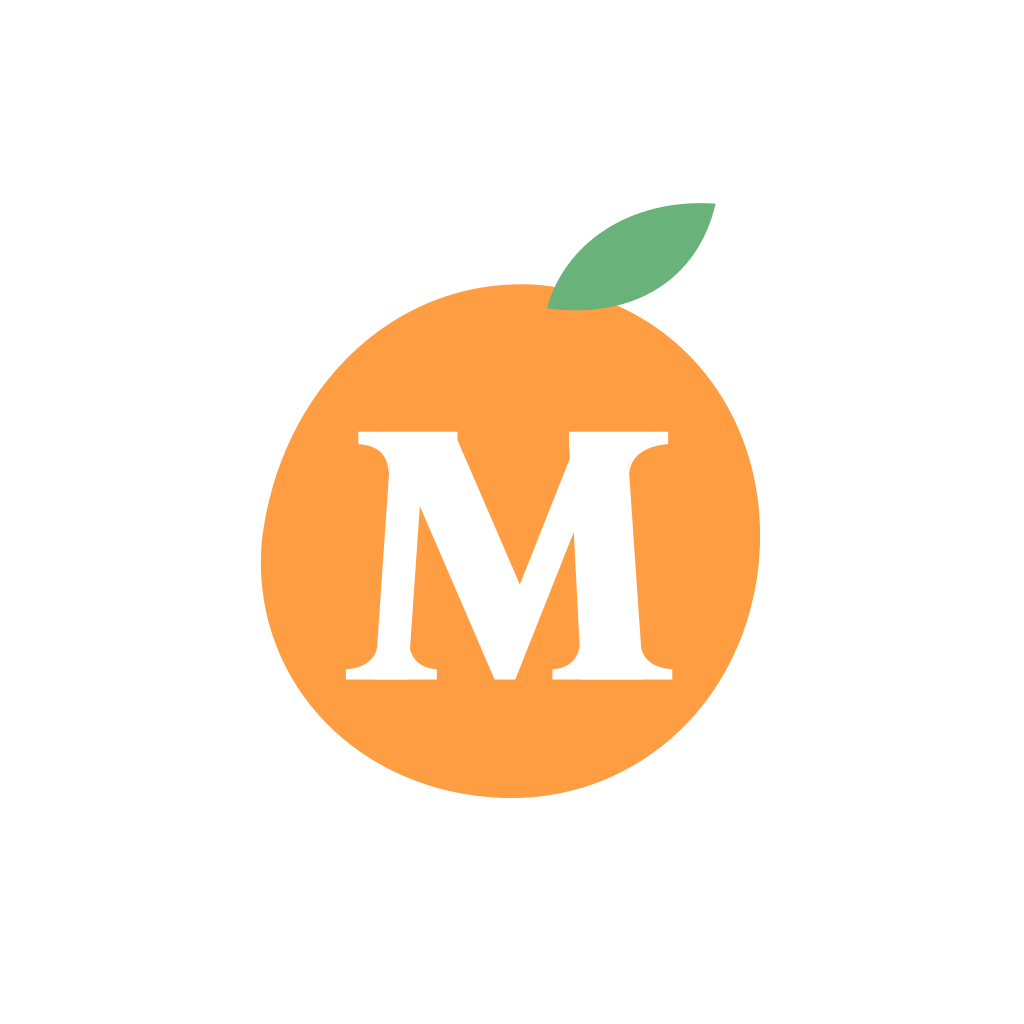
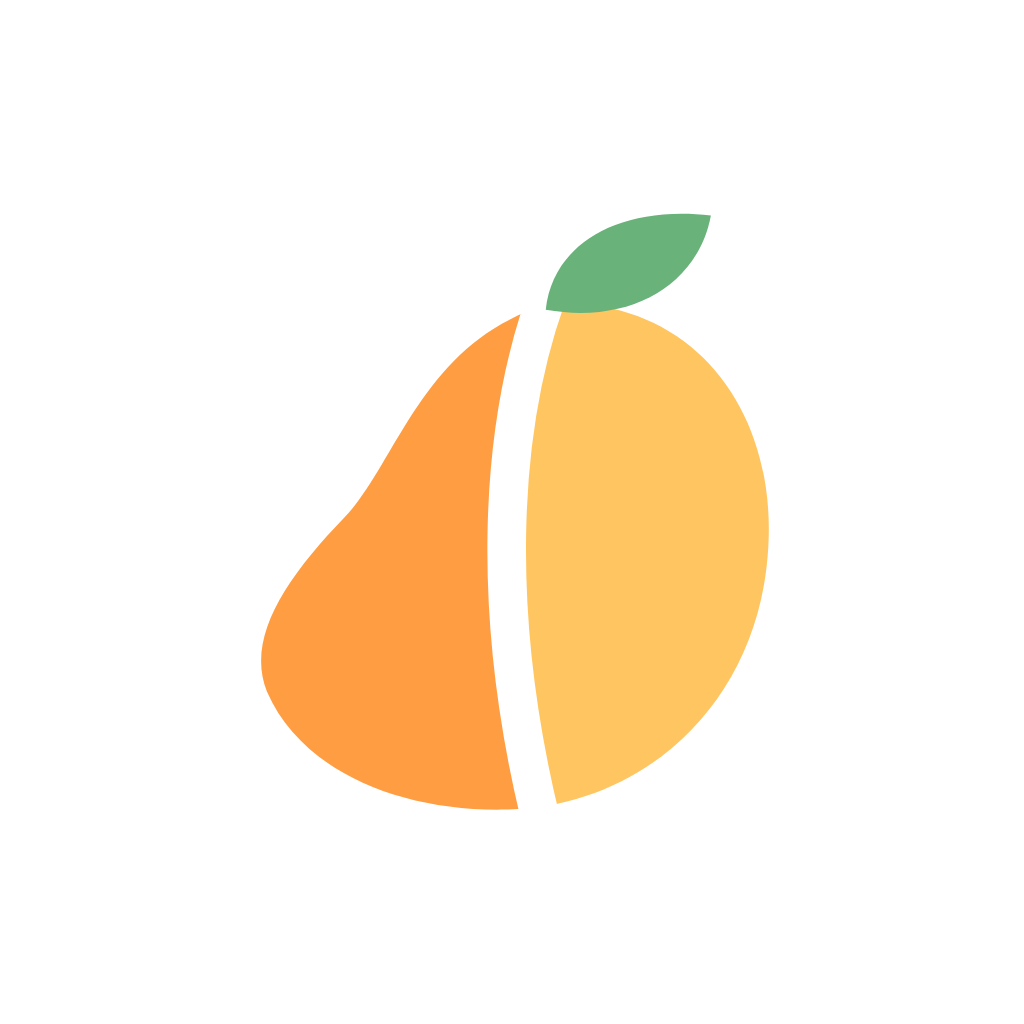
feat(mobile): use the split mango mark on the phone
MangoMark.tsx draws the desktop's new mark. Its lighter half is a new
`markLight` colour, which scripts/schemes.ts computes from each scheme's
accent the same way the desktop does (lightness +0.07, chroma x0.85, hue
+20). The app icon, splash, Android icons and web favicon are re-rendered
from assets/icon.svg at their old sizes and positions.

diff --git a/mobile/src/theme/schemes.generated.ts b/mobile/src/theme/schemes.generated.ts
@@ -65,6 +65,7 @@ export const generated = {
         "waitingWash": "#1b251d",
         "waitingLine": "rgba(244, 124, 110, 0.55)",
         "accentWash": "#1d2920",
+        "markLight": "#ffc560",
         "errorWash": "rgba(240, 85, 91, 0.12)",
         "errorLine": "rgba(240, 85, 91, 0.4)",
         "errorLineStrong": "rgba(240, 85, 91, 0.6)",
@@ -137,6 +138,7 @@ export const generated = {
         "waitingWash": "#fef3f2",
         "waitingLine": "rgba(217, 84, 72, 0.55)",
         "accentWash": "#fff5ed",
+        "markLight": "#f1b542",
         "errorWash": "rgba(208, 43, 49, 0.12)",
         "errorLine": "rgba(208, 43, 49, 0.4)",
         "errorLineStrong": "rgba(208, 43, 49, 0.6)",
@@ -211,6 +213,7 @@ export const generated = {
         "waitingWash": "#1c222d",
         "waitingLine": "rgba(244, 124, 110, 0.55)",
         "accentWash": "#1c2531",
+        "markLight": "#a8bdff",
         "errorWash": "rgba(240, 85, 91, 0.12)",
         "errorLine": "rgba(240, 85, 91, 0.4)",
         "errorLineStrong": "rgba(240, 85, 91, 0.6)",
@@ -283,6 +286,7 @@ export const generated = {
         "waitingWash": "#fef3f2",
         "waitingLine": "rgba(217, 84, 72, 0.55)",
         "accentWash": "#f0f6ff",
+        "markLight": "#97a7fe",
         "errorWash": "rgba(208, 43, 49, 0.12)",
         "errorLine": "rgba(208, 43, 49, 0.4)",
         "errorLineStrong": "rgba(208, 43, 49, 0.6)",
@@ -357,6 +361,7 @@ export const generated = {
         "waitingWash": "#152523",
         "waitingLine": "rgba(244, 124, 110, 0.55)",
         "accentWash": "#172928",
+        "markLight": "#71d8f1",
         "errorWash": "rgba(240, 85, 91, 0.12)",
         "errorLine": "rgba(240, 85, 91, 0.4)",
         "errorLineStrong": "rgba(240, 85, 91, 0.6)",
@@ -429,6 +434,7 @@ export const generated = {
         "waitingWash": "#fef3f2",
         "waitingLine": "rgba(217, 84, 72, 0.55)",
         "accentWash": "#eef9f8",
+        "markLight": "#5cc5dd",
         "errorWash": "rgba(208, 43, 49, 0.12)",
         "errorLine": "rgba(208, 43, 49, 0.4)",
         "errorLineStrong": "rgba(208, 43, 49, 0.6)",
@@ -503,6 +509,7 @@ export const generated = {
         "waitingWash": "#1d241a",
         "waitingLine": "rgba(244, 124, 110, 0.55)",
         "accentWash": "#1e291e",
+        "markLight": "#72e8b9",
         "errorWash": "rgba(240, 85, 91, 0.12)",
         "errorLine": "rgba(240, 85, 91, 0.4)",
         "errorLineStrong": "rgba(240, 85, 91, 0.6)",
@@ -575,6 +582,7 @@ export const generated = {
         "waitingWash": "#fef3f2",
         "waitingLine": "rgba(217, 84, 72, 0.55)",
         "accentWash": "#f0f9f0",
+        "markLight": "#4bcf9e",
         "errorWash": "rgba(208, 43, 49, 0.12)",
         "errorLine": "rgba(208, 43, 49, 0.4)",
         "errorLineStrong": "rgba(208, 43, 49, 0.6)",
@@ -649,6 +657,7 @@ export const generated = {
         "waitingWash": "#241f2b",
         "waitingLine": "rgba(244, 124, 110, 0.55)",
         "accentWash": "#252230",
+        "markLight": "#dda4f6",
         "errorWash": "rgba(240, 85, 91, 0.12)",
         "errorLine": "rgba(240, 85, 91, 0.4)",
         "errorLineStrong": "rgba(240, 85, 91, 0.6)",
@@ -721,6 +730,7 @@ export const generated = {
         "waitingWash": "#fef3f2",
         "waitingLine": "rgba(217, 84, 72, 0.55)",
         "accentWash": "#f5f3fe",
+        "markLight": "#ca8ae6",
         "errorWash": "rgba(208, 43, 49, 0.12)",
         "errorLine": "rgba(208, 43, 49, 0.4)",
         "errorLineStrong": "rgba(208, 43, 49, 0.6)",
@@ -795,6 +805,7 @@ export const generated = {
         "waitingWash": "#2a1d23",
         "waitingLine": "rgba(244, 124, 110, 0.55)",
         "accentWash": "#2e2027",
+        "markLight": "#ffa6b6",
         "errorWash": "rgba(240, 85, 91, 0.12)",
         "errorLine": "rgba(240, 85, 91, 0.4)",
         "errorLineStrong": "rgba(240, 85, 91, 0.6)",
@@ -867,6 +878,7 @@ export const generated = {
         "waitingWash": "#fef3f2",
         "waitingLine": "rgba(217, 84, 72, 0.55)",
         "accentWash": "#fff2f7",
+        "markLight": "#ff8b96",
         "errorWash": "rgba(208, 43, 49, 0.12)",
         "errorLine": "rgba(208, 43, 49, 0.4)",
         "errorLineStrong": "rgba(208, 43, 49, 0.6)",
@@ -941,6 +953,7 @@ export const generated = {
         "waitingWash": "#2b1e1c",
         "waitingLine": "rgba(244, 124, 110, 0.55)",
         "accentWash": "#2f1f1e",
+        "markLight": "#ff9d6e",
         "errorWash": "rgba(240, 85, 91, 0.12)",
         "errorLine": "rgba(240, 85, 91, 0.4)",
         "errorLineStrong": "rgba(240, 85, 91, 0.6)",
@@ -1013,6 +1026,7 @@ export const generated = {
         "waitingWash": "#fef3f2",
         "waitingLine": "rgba(217, 84, 72, 0.55)",
         "accentWash": "#fff1ef",
+        "markLight": "#f88248",
         "errorWash": "rgba(208, 43, 49, 0.12)",
         "errorLine": "rgba(208, 43, 49, 0.4)",
         "errorLineStrong": "rgba(208, 43, 49, 0.6)",
@@ -1087,6 +1101,7 @@ export const generated = {
         "waitingWash": "#1c222a",
         "waitingLine": "rgba(244, 124, 110, 0.55)",
         "accentWash": "#20262b",
+        "markLight": "#b5c7ef",
         "errorWash": "rgba(240, 85, 91, 0.12)",
         "errorLine": "rgba(240, 85, 91, 0.4)",
         "errorLineStrong": "rgba(240, 85, 91, 0.6)",
@@ -1159,6 +1174,7 @@ export const generated = {
         "waitingWash": "#fef3f2",
         "waitingLine": "rgba(217, 84, 72, 0.55)",
         "accentWash": "#f0f4f8",
+        "markLight": "#879bc6",
         "errorWash": "rgba(208, 43, 49, 0.12)",
         "errorLine": "rgba(208, 43, 49, 0.4)",
         "errorLineStrong": "rgba(208, 43, 49, 0.6)",
@@ -1233,6 +1249,7 @@ export const generated = {
         "waitingWash": "#1f1515",
         "waitingLine": "rgba(244, 124, 110, 0.55)",
         "accentWash": "#221212",
+        "markLight": "#df5a00",
         "errorWash": "rgba(240, 85, 91, 0.12)",
         "errorLine": "rgba(240, 85, 91, 0.4)",
         "errorLineStrong": "rgba(240, 85, 91, 0.6)",
@@ -1305,6 +1322,7 @@ export const generated = {
         "waitingWash": "#fef3f2",
         "waitingLine": "rgba(217, 84, 72, 0.55)",
         "accentWash": "#ffedea",
+        "markLight": "#d85400",
         "errorWash": "rgba(208, 43, 49, 0.12)",
         "errorLine": "rgba(208, 43, 49, 0.4)",
         "errorLineStrong": "rgba(208, 43, 49, 0.6)",
@@ -1379,6 +1397,7 @@ export const generated = {
         "waitingWash": "#27201f",
         "waitingLine": "rgba(244, 124, 110, 0.55)",
         "accentWash": "#2b241f",
+        "markLight": "#ffc560",
         "errorWash": "rgba(240, 85, 91, 0.12)",
         "errorLine": "rgba(240, 85, 91, 0.4)",
         "errorLineStrong": "rgba(240, 85, 91, 0.6)",
@@ -1451,6 +1470,7 @@ export const generated = {
         "waitingWash": "#fef3f2",
         "waitingLine": "rgba(217, 84, 72, 0.55)",
         "accentWash": "#fff5ed",
+        "markLight": "#f1b542",
         "errorWash": "rgba(208, 43, 49, 0.12)",
         "errorLine": "rgba(208, 43, 49, 0.4)",
         "errorLineStrong": "rgba(208, 43, 49, 0.6)",

diff --git a/mobile/src/ui/MangoMark.tsx b/mobile/src/ui/MangoMark.tsx
@@ -3,31 +3,26 @@ import Svg, { Defs, G, Mask, Path, Rect } from 'react-native-svg'
 import { useTheme } from '@/theme'
 
 /**
- * The app mark, ported from the desktop's `ui/MangoMark.vue`: the ripeness-dot mango, ripe, with a
- * Roman inscription M cut out of its flesh so the ground shows through. Same geometry as
- * `assets/icon.svg`.
+ * The app mark, ported from the desktop's `ui/MangoMark.vue`: a kidney-shaped mango split down its
+ * ridge into two halves, the left in the accent, the right a step lighter and warmer, with the leaf
+ * in unripe green. Same geometry as `assets/icon.svg`.
  */
 export function MangoMark({ size = 18 }: { size?: number }) {
   const t = useTheme()
   const id = `mark${useId().replace(/[^a-zA-Z0-9_-]/g, '')}`
   return (
-    <Svg width={size} height={size} viewBox="0.6 0 11 11" accessibilityRole="image" accessibilityLabel="Mango">
+    <Svg width={size} height={size} viewBox="5 1.2 56.6 56.6" accessibilityRole="image" accessibilityLabel="Mango">
       <Defs>
-        <Mask id={id} maskUnits="userSpaceOnUse" x="0" y="0" width="12" height="12">
-          <Path fill="#fff" d="M6.6 1.6c2.6.3 4.1 2.6 3.7 5.1-.4 2.4-2.4 3.9-4.6 3.7C3.3 10.2 1.6 8.3 1.8 6c.3-2.6 2.3-4.6 4.8-4.4Z" />
-          <G fill="#000" transform="translate(6.05 6.25) scale(.071) translate(-51.5 -50)">
-            <Path d="M19 80H27L31 22H23Z" />
-            <Path d="M23 22H39L54.1 57L68 22H76L53 80H48Z" />
-            <Path d="M66 22H80L84 80H69Z" />
-            <Path d="M12 80H34V77.5C30.5 77.3 28 75.5 27.4 72H19.6C19 75.5 16 77.3 12 77.5Z" />
-            <Path d="M62 80H91V77.5C87 77.3 84 75.5 83.4 72H68.6C68 75.5 65.5 77.3 62 77.5Z" />
-            <Path d="M15 20H39V24H23L22.4 30C22 25.5 20 23.4 15 23Z" />
-            <Path d="M66 20H90V23C85 23.4 81 25.5 80.6 30L80 24H66Z" />
-          </G>
+        <Mask id={id} maskUnits="userSpaceOnUse" x="0" y="0" width="64" height="64">
+          <Path fill="#fff" d="M37 10C50.5 9.4 58.6 20.6 57 34.5C55.5 47.8 45.2 57 32.6 57.2C22.8 57.4 13.6 53.6 10.4 46.2C8.4 41.2 12.2 35.6 17.6 30C22.6 24.8 25 13.2 37 10Z" />
+          <Path d="M37.4 7C31.6 21 31.2 40 36.4 60" fill="none" stroke="#000" strokeWidth={3.6} strokeLinecap="round" />
         </Mask>
       </Defs>
-      <Rect x="0" y="0" width="12" height="12" fill={t.colors.accent} mask={`url(#${id})`} />
-      <Path fill={t.colors.ripeQueued} d="M6.7 2c.3-1.1 1.4-1.9 2.9-1.8-.3 1.3-1.4 2-2.9 1.8Z" />
+      <G mask={`url(#${id})`}>
+        <Rect x="0" y="0" width="64" height="64" fill={t.colors.accent} />
+        <Path fill={t.colors.markLight} d="M37.4 0V7C31.6 21 31.2 40 36.4 60V64H64V0Z" />
+      </G>
+      <Path fill={t.colors.ripeQueued} d="M36.4 10.6C37 4.6 43 .8 51.8 1.8C50.6 8.2 44.4 12 36.4 10.6Z" />
     </Svg>
   )
 }

diff --git a/mobile/scripts/schemes.ts b/mobile/scripts/schemes.ts
@@ -171,6 +171,10 @@ export function palette(rules: Rule[], theme: Theme, scheme: Scheme): { colors: 
   colors.waitingWash = mix('ripe-waiting', 7, 'bg-panel')
   colors.waitingLine = withAlpha('ripe-waiting', 0.55)
   colors.accentWash = mix('accent', 9, 'bg-panel')
+  // The app mark's lighter half (`ui/MangoMark.vue`): the accent lighter and turned towards gold,
+  // `oklch(from var(--accent) calc(l + 0.07) calc(c * 0.85) calc(h + 20))`.
+  const accent = col('accent').color
+  colors.markLight = hex(oklchToRgb({ l: Math.min(1, accent.l + 0.07), c: accent.c * 0.85, h: (accent.h + 20) % 360 }))
   colors.errorWash = withAlpha('ripe-error', 0.12)
   colors.errorLine = withAlpha('ripe-error', 0.4)
   colors.errorLineStrong = withAlpha('ripe-error', 0.6)

diff --git a/mobile/src/theme/shippedMango.fixture.ts b/mobile/src/theme/shippedMango.fixture.ts
@@ -54,6 +54,7 @@ export const darkColors: Colors = {
   waitingWash: '#1b251d',
   waitingLine: 'rgba(244, 124, 110, 0.55)',
   accentWash: '#1d2920',
+  markLight: '#ffc560',
   errorWash: 'rgba(240, 85, 91, 0.12)',
   errorLine: 'rgba(240, 85, 91, 0.4)',
   errorLineStrong: 'rgba(240, 85, 91, 0.6)',
@@ -130,6 +131,7 @@ export const lightColors: Colors = {
   waitingWash: '#fef3f2',
   waitingLine: 'rgba(217, 84, 72, 0.55)',
   accentWash: '#fff5ed',
+  markLight: '#f1b542',
   errorWash: 'rgba(208, 43, 49, 0.12)',
   errorLine: 'rgba(208, 43, 49, 0.4)',
   errorLineStrong: 'rgba(208, 43, 49, 0.6)',

diff --git a/mobile/src/theme/tokens.ts b/mobile/src/theme/tokens.ts
@@ -77,6 +77,8 @@ export interface Colors {
   waitingLine: string
   /** `color-mix(in oklch, accent 9%, bg-panel)`: a picked option. */
   accentWash: string
+  /** The app mark's lighter half: the accent lighter and turned towards gold (`ui/MangoMark.vue`). */
+  markLight: string
   /** `ripe-error` at 12%, 40% and 60%: error banner wash, danger button border, field error border. */
   errorWash: string
   errorLine: string
